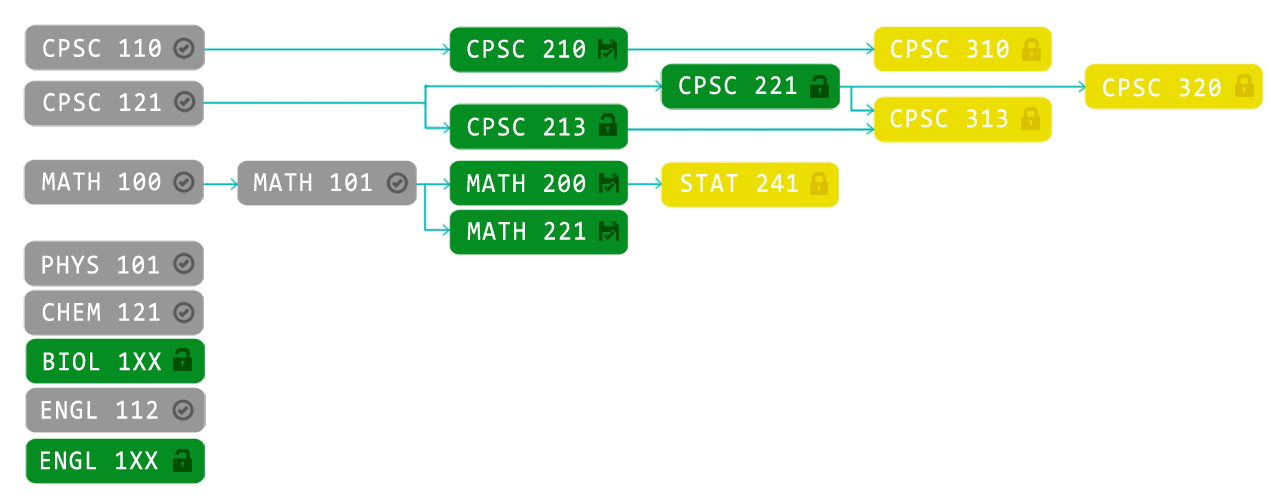
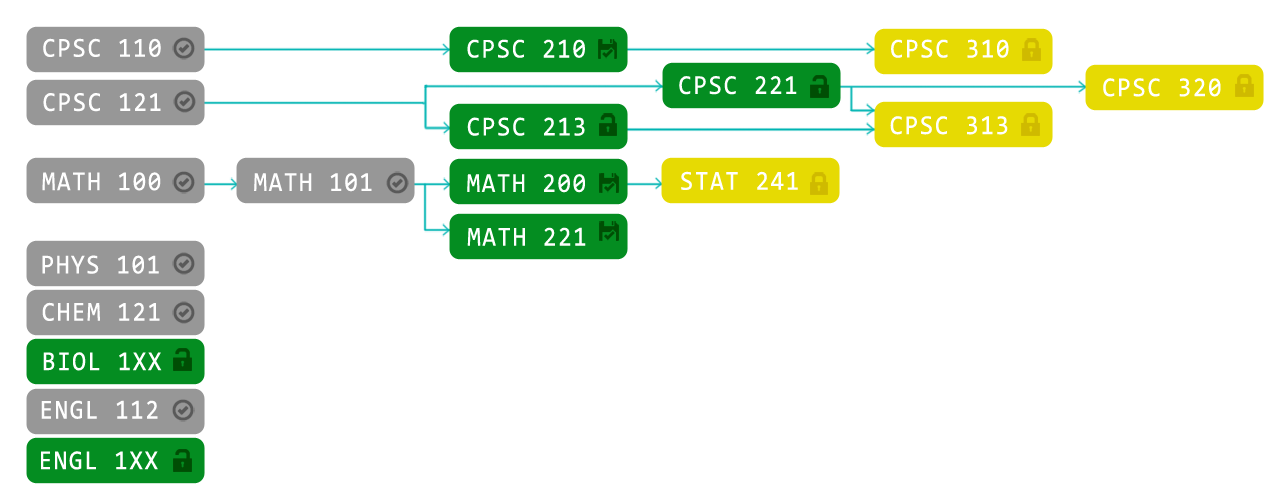
Update coursetree

diff --git a/app/snippets/ctMain.html b/app/snippets/ctMain.html
@@ -1,2 +1,2 @@
 <h3>Required Courses</h3>
-<a href="#" onclick="showCPSC221()"><img src="app/img/coursetree.png" border=0 height=500></img></a>
+<a href="#" onclick="showCPSC221()"><img src="app/img/coursetree.png" border=0 height=400></img></a>
